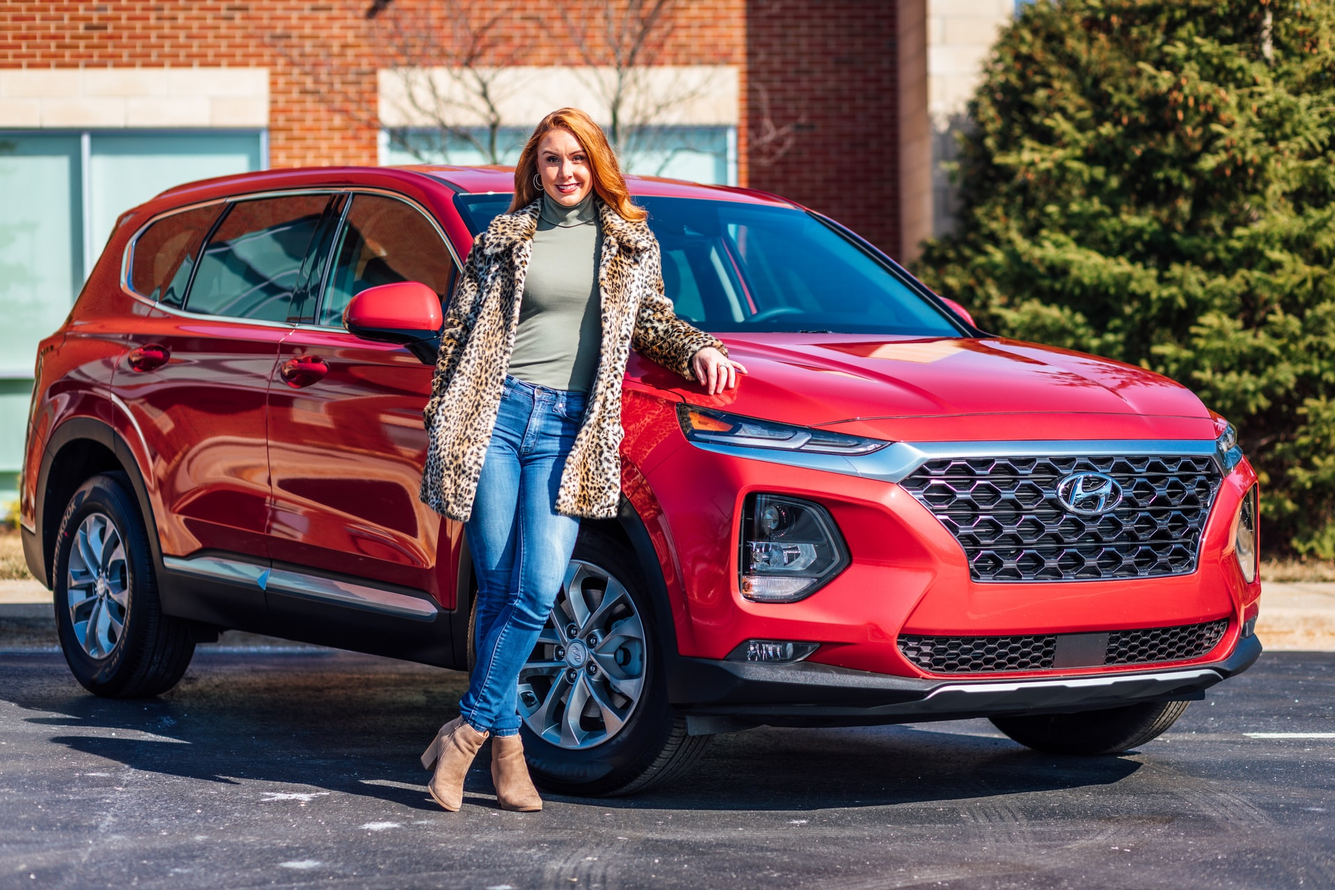
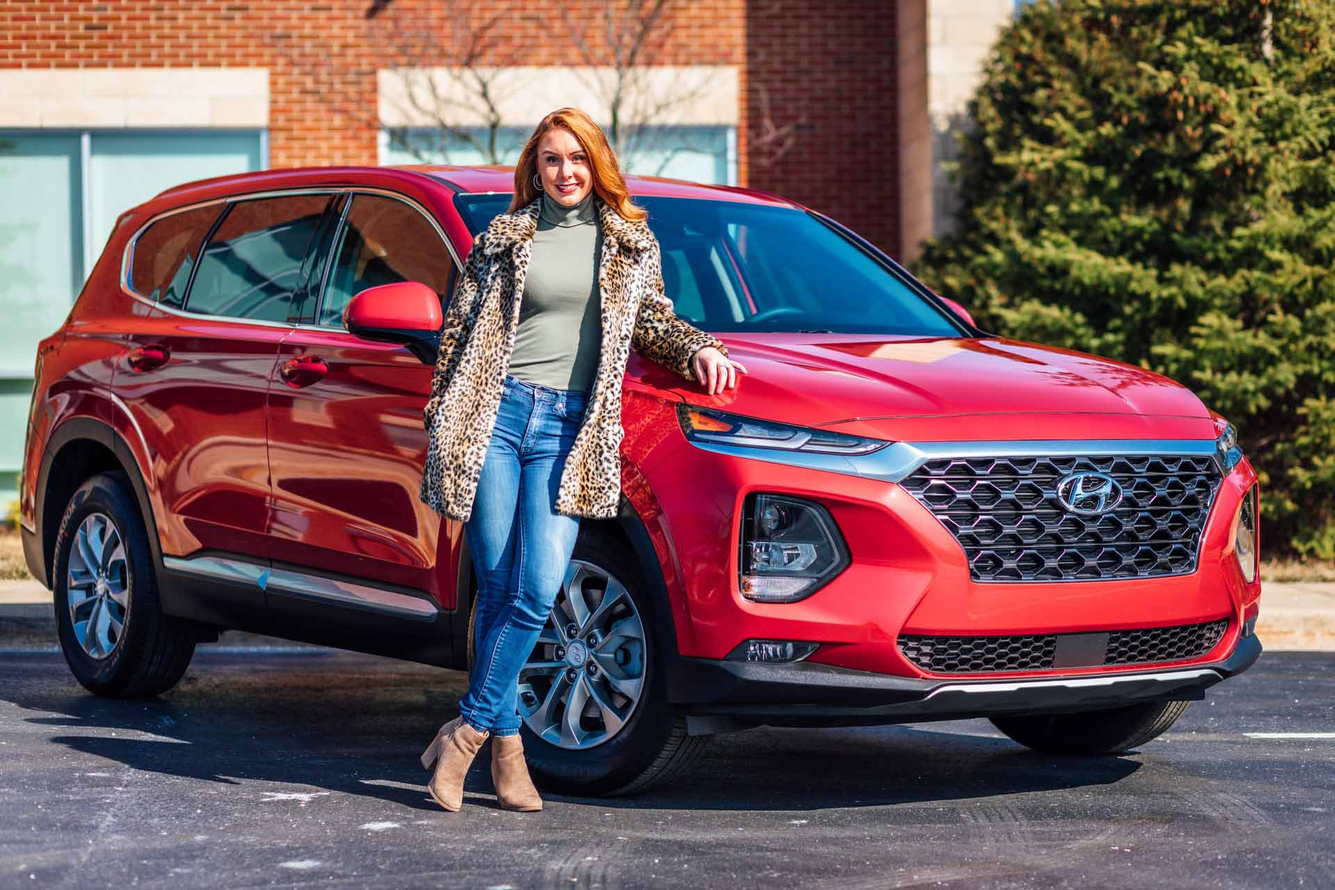
Mer innehåll på "om oss" + felsökning + mediaqueries
Jag felsökte undersidan "om oss" där jag hade att problem med att bilderna tog upp en del av textens grid area. Detta problemet orsakades av att jag hade råkat lägga in flex centrering på bildens flexförälder. Jag har även lagt till mer innehåll och en rubrik som heter "Policy" på "om oss" undersidan. Utöver detta har jag fixat mediaqueries på undersidorna "här finns vi" och "om oss".

Changed region(s): [[0.7812, 0.5312, 0.8125, 0.5625], [0.5, 0.375, 0.5312, 0.4062], [0.375, 0.25, 0.4062, 0.2812]]

diff --git a/css/style.css b/css/style.css
@@ -503,6 +503,7 @@ ul a {
     width: 100%;
     height: auto;
     object-fit: cover;
+
 }
 
 #mc4 {
@@ -729,7 +730,7 @@ ul {
 
 #mc9_info:before{
 
-    background-image: url(../img/gray2.jpg);
+    background-image: url(../img/gray.jpg);
     content: "";
     background-size: cover;
     position: absolute;
@@ -845,7 +846,7 @@ ul {
     width: 100vw;
     height: 100vh;
     grid-template-columns: minmax(200px, 1fr);
-    grid-template-rows: minmax(125px, 1fr) 150px minmax(200px, 2.8fr) 150px minmax(200px, 2.8fr) 150px minmax(200px, 2.8fr);
+    grid-template-rows: minmax(125px, 1fr) 175px minmax(250px, 2.8fr) 175px minmax(250px, 2.8fr) 175px minmax(250px, 2.8fr);
     grid-template-areas:
     "nav"
     "pl1"
@@ -977,13 +978,13 @@ ul {
     margin-top: 1rem;
 }
 
-#about_us_wrapper {
+#grid_wrapper_about_us {
     height: 100vh;
     width: 100vw;
     display: grid;
 
-    grid-template-columns: 1fr;
-    grid-template-rows: minmax(125px, 1fr) minmax(200px, 2fr) minmax(250px, 2.4fr) minmax(200px, 2fr) minmax(250px, 2.4fr);
+    grid-template-columns: minmax(200px, 1fr);
+    grid-template-rows: minmax(125px, 1fr) minmax(250px, 2fr) minmax(300px, 2.4fr) minmax(250px, 2fr) minmax(300px, 2.4fr) minmax(250px, 2fr) minmax(300px, 2.4fr);
 
     grid-template-areas:
     "nav"
@@ -991,15 +992,48 @@ ul {
     "ohp"
     "hww"
     "hwp"
+    "pol"
+    "hif"
     ;
 
+}
+
+#policy {
+    grid-area: pol;
+    position: relative;
+}
+
+#policy::before{
+
+    background-image: url(../img/gray2.jpg);
+    content: "";
+    background-size: cover;
+    position: absolute;
+    top: 0px;
+    right: 0px;
+    bottom: 0px;
+    left: 0px;
+    opacity: 0.5;
+    filter: brightness(200%);
+
+}
+
+#policy_pic {
+    grid-area: hif;
+    display: flex;
 }
 
 #our_history {
     grid-area: ohi;
     position: relative;
+
 }
 
+
+#our_history_pic {
+    grid-area: ohp;
+    display: flex;
+}
 
 #our_history::before{
 
@@ -1016,16 +1050,17 @@ ul {
 
 }
 
-#our_history_pic {
-    grid-area: ohp;
-    display: flex;
-    align-items: center;
-    justify-content: center;
-}
-
 #how_we_work {
     grid-area: hww;
     position: relative;
+}
+
+
+#how_we_work_pic {
+    display: flex;
+    grid-area: hwp;
+
+    
 }
 
 #how_we_work::before{
@@ -1043,17 +1078,12 @@ ul {
 
 }
 
-#how_we_work_pic {
-    grid-area: hwp;
-    display: flex;
-    align-items: center;
-    justify-content: center;
-}
-
 #costumer {
     width: 100%;
     height: auto;
     object-fit: cover;
+    object-position: top;
+    
 }
 
 #old_cars {
@@ -1062,13 +1092,20 @@ ul {
     object-fit: cover;
 }
 
+#high_five {
+    width: 100%;
+    height: auto;
+    object-fit: cover;
+    object-position: top;
+}
+
 .about_us_text {
     margin: 1rem;
     margin-left: 1.8rem;
     line-height: 1.4rem;
     font-family: 'Poppins', sans-serif;
-    fill-opacity: 0;
     color: black;
+   
 }
 
 .about_us_title {
@@ -1161,6 +1198,47 @@ ul {
         font-size: 1.325rem;
         font-family: 'Poppins', sans-serif;
     }
+
+    #grid_wrapper_here_are_we {
+
+        grid-template-columns: minmax(350px, 1fr)  minmax(200px, 1fr) minmax(200px, 1fr);
+        grid-template-rows:minmax(125px, 1fr) minmax(350px, 2.8fr) minmax(350px, 2.8fr) minmax(350px, 2.8fr);
+        grid-template-areas: 
+        "nav nav nav"
+        "pl1 p1c p1c"
+        "pl2 p2c p2c"
+        "pl3 p3c p3c"
+        ;
+    }
+
+    .place_text {
+        line-height: 1.8rem;
+        margin-left: 2.8rem;
+        font-size: 1.125rem;
+    }
+
+    .place_title {
+        margin-left: 2rem;
+        font-size: 1.8rem;
+    }
+
+    #grid_wrapper_about_us {
+
+        grid-template-columns: minmax(450px, 1fr) minmax(450px, 2fr);
+        grid-template-rows: minmax(125px, 1fr) minmax(300px, 2.8fr) minmax(300px, 2.8fr) minmax(300px, 2.8fr);
+
+        grid-template-areas: 
+        "nav nav"
+        "ohi ohp"
+        "hww hwp"
+        "pol hif"
+        ;
+
+    }
+
+
+
+    
 
 
 

diff --git a/about_us.html b/about_us.html
@@ -14,7 +14,7 @@
 <body>
 
 
-    <div id="about_us_wrapper">
+    <div id="grid_wrapper_about_us">
 
         <nav class="nav">
 
@@ -56,22 +56,32 @@
 
             <h1 class="about_us_title">Vår historia</h1>
 
-            <p class="about_us_text">Lorem ipsum dolor sit amet consectetur adipisicing elit. Consequatur, officiis repellat perspiciatis veniam sed eveniet!</p>
+            <p class="about_us_text">Lorem ipsum dolor sit amet consectetur adipisicing elit. Sequi molestias, deleniti fugiat fugit qui consequatur nisi nulla debitis at voluptatem perferendis, optio suscipit quisquam consequuntur illo tempora dolores quod est quos dolorem iure dolorum cumque eligendi ab. Dolorum, mollitia deleniti!</p>
 
         </section>
 
-        <section id="our_history_pic"> <img id="old_cars" src="img/old_dealership.jpg" alt="Bild på företagets första butik"></section>
+        <section id="our_history_pic"> <img id="old_cars" src="img/old_dealer2.jpg" alt="Bild på företagets första butik"></section>
 
         
         <section id="how_we_work">
 
             <h2 class="about_us_title">Hur vi jobbar</h1>
 
-            <p class="about_us_text">Lorem ipsum dolor sit amet consectetur adipisicing elit. Ipsum dolorum sequi earum iure aut quia hic alias asperiores eius deleniti dolore repudiandae, placeat qui cupiditate?</p>
+            <p class="about_us_text">Lorem ipsum dolor sit, amet consectetur adipisicing elit. Repellat aspernatur autem explicabo similique, nam illo quod praesentium odio ipsum nemo iure aperiam delectus facere sed ullam, impedit magni, consectetur nostrum consequuntur repellendus minima. Magni nobis, cum vitae recusandae doloremque excepturi.</p>
 
         </section>
 
-        <section id="how_we_work_pic"> <img id="costumer" src="img/how_we_work1_small.jpg" alt="Bild på en av våra kunder som nyss köpt en bil"></section>
+        <section id="how_we_work_pic"> <img id="costumer" src="img/how_we_work1_medium.jpg" alt="Bild på en av våra kunder som nyss köpt en bil"></section>
+
+        <section id="policy">
+
+            <h2 class="about_us_title">Policy</h1>
+
+            <p class="about_us_text">Lorem ipsum dolor sit amet consectetur adipisicing elit. Sunt voluptas, corporis repudiandae alias minima modi quaerat quis deleniti placeat, ipsam iste saepe blanditiis est ad quam nobis quidem magni aliquid. Vitae placeat distinctio excepturi molestias. </p>
+
+        </section>
+
+        <section id="policy_pic"> <img id="high_five" src="img/policy1.jpg" alt="Bild på två personer som gör en high five"></section>
 
         <script src="js/script.js"></script>
 

diff --git a/here_are_we.html b/here_are_we.html
@@ -59,6 +59,7 @@
                 <p class="place_text">Backaplansgatan 8</p>
                 <p class="place_text">435 87</p>
                 <p class="place_text">031 51 56 84</p>
+                <p class="place_text">info@backaplan.fordonsföreteaget.se</p>
 
             </section>
 
@@ -76,6 +77,7 @@
                 <p class="place_text">Hisingsvägen 74</p>
                 <p class="place_text">435 21</p>
                 <p class="place_text">031 39 32 76</p>
+                <p class="place_text">info@hisingen.fordonsföreteaget.se</p>
 
             </section>
 
@@ -93,6 +95,7 @@
                 <p class="place_text">Mölndalsvägen 2</p>
                 <p class="place_text">435 29</p>
                 <p class="place_text">031 11 32 55</p>
+                <p class="place_text">info@molndal.fordonsföreteaget.se</p>
 
             </section>
 
